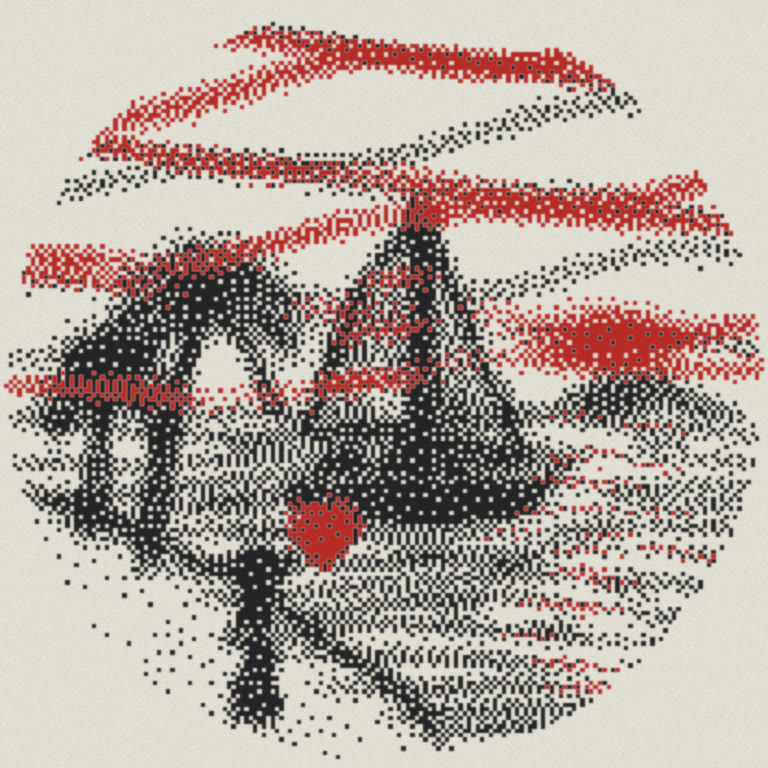
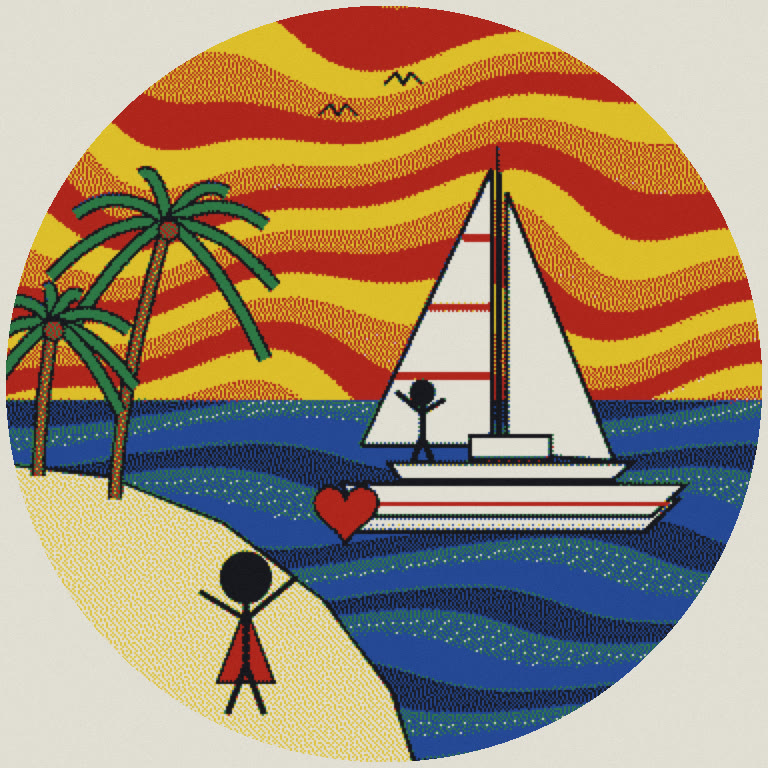
Six-colour display, fifteen styles

diff --git a/index.html b/index.html
@@ -92,33 +92,25 @@ ul{margin:0;padding-left:20px;display:flex;flex-direction:column;gap:8px;max-wid
   <ol class="steps">
     <li><b>Squeeze</b>Either bulb. Air pressure in the tube wakes the device; there is no visible switch.</li>
     <li><b>Tell it</b>Eight LEDs glow gently while the microphone listens, then pulse off.</li>
-    <li><b>It draws</b>The dream appears in black, white and red on a 3-inch e-paper screen under a magnifying lens, in the style you chose.</li>
+    <li><b>It draws</b>The dream appears in six colours on a 3-inch e-paper screen under a magnifying lens, in the style you chose.</li>
     <li><b>It remembers</b>Have the same dream again and it recognises it, then adds detail to the earlier picture.</li>
   </ol>
   <div class="grid2">
     <figure><img src="img/listening.jpg" alt="The web LEDs glowing violet while the device listens."><figcaption>Listening: the web lights breathe, then pulse off.</figcaption></figure>
-    <figure><img src="img/sketch.jpg" alt="Close-up of the e-paper screen showing a catamaran, palm trees, a figure on the sand and a red heart under a sky of sweeping red bands, built from dots."><figcaption>The example dream: a catamaran at a desert island, and finding your love on the sand.</figcaption></figure>
+    <figure><img src="img/sketch.jpg" alt="Close-up of the e-paper screen showing a catamaran, palm trees, a figure on the sand and a red heart under a sky of sweeping red and yellow bands."><figcaption>The example dream: a catamaran at a desert island, and finding your love on the sand.</figcaption></figure>
   </div>
 </section>
 
 <section id="films">
   <h2>The two films</h2>
-  <p class="muted">A 60-second film of the Dreamkeeper in use and a 56-second technical breakdown are being rendered and will appear here shortly.</p>
+  <p class="muted">A 60-second film of the Dreamkeeper in use and a 64-second technical breakdown are being rendered and will appear here shortly.</p>
 </section>
 
 <section>
   <h2>Drawing styles</h2>
-  <p>The picture is not a line sketch by default. It forms as a cloud of soft dots that sharpens over a few screen refreshes, so it reads like something half-remembered. You pick a style when you set the Dreamkeeper up from your phone, and can change it later. The example dream below is shown in five styles; more could be added.</p>
-  <figure><img src="img/styles.jpg" alt="The same dream in five styles, each a round black, white and red picture: sweeping expressionist bands, a calm dotted mist, a dark picture with one pool of light, angular hatched facets, and a simple ink line drawing."><figcaption>Left to right: Scream, Mist, Rembrandt, Picasso, Ink.</figcaption></figure>
-  <div class="tablewrap"><table style="min-width:520px">
-    <tr><th>Style</th><th>Look</th></tr>
-    <tr><td>Scream</td><td>Sky and sea bent into long sweeping bands, after Edvard Munch's <i>The Scream</i>. Used for the example dream in the films.</td></tr>
-    <tr><td>Mist</td><td>A calm, low-resolution cloud of dots.</td></tr>
-    <tr><td>Rembrandt</td><td>Dark ground with one pool of light on the subject.</td></tr>
-    <tr><td>Picasso</td><td>Cubist: the scene broken into flat, angular, hatched facets.</td></tr>
-    <tr><td>Ink</td><td>A simple hand-drawn line sketch.</td></tr>
-  </table></div>
-  <p class="muted">All five are illustrations made for this concept to show the idea on a three-colour screen. They are not output from a working device.</p>
+  <p>You pick a drawing style when you set the Dreamkeeper up from your phone, and can change it whenever you like. Whatever the style, the dream has to stay easy to read: the same boat, island, figures and heart are plain in every one. Here is the example dream in fifteen styles, each limited to the six inks of the screen.</p>
+  <figure><img src="img/styles.jpg" alt="The same dream, a catamaran at a palm island with a figure on the sand and a red heart, shown as fifteen round pictures in different styles."><figcaption>Top: The Scream, Mist, Rembrandt, Picasso, Van Gogh. Middle: Monet, Pointillist, Woodblock, Pop art, Stained glass. Bottom: Mosaic, Ink, Chalkboard, Blueprint, Newsprint.</figcaption></figure>
+  <p class="muted">These are illustrations made for this concept to show the idea on a six-colour screen. They are not output from a working device, and the list of styles is open-ended.</p>
 </section>
 
 <section>
@@ -131,13 +123,13 @@ ul{margin:0;padding-left:20px;display:flex;flex-direction:column;gap:8px;max-wid
   <div class="tablewrap"><table>
     <tr><th>Element</th><th>Specification</th><th>Status</th></tr>
     <tr><td>Size</td><td>9 in (229 mm) hoop. With feathers and bulbs the piece hangs about 21 in (53 cm) long.</td><td class="s"><i class="chip dec">Decided</i></td></tr>
-    <tr><td>Display</td><td>3 in round screen at the centre of the web, under a magnifying lens. Three-colour e-paper (black, white, red) for low power.</td><td class="s"><i class="chip dec">Decided</i></td></tr>
+    <tr><td>Display</td><td>3 in round screen at the centre of the web, under a magnifying lens. Colour e-paper for low power: six inks (black, white, red, yellow, blue, green).</td><td class="s"><i class="chip dec">Decided</i></td></tr>
     <tr><td>Controls</td><td>Two squeeze switches, the lowest hanging elements. A squeeze starts a recording.</td><td class="s"><i class="chip dec">Decided</i></td></tr>
     <tr><td>Lights</td><td>Several LEDs in the web glow gently while listening, then pulse gently off. Eight in the model.</td><td class="s"><i class="chip dec">Decided</i></td></tr>
     <tr><td>Controller</td><td>ESP32 with Wi-Fi. Has its own access point so it can be set up from a phone.</td><td class="s"><i class="chip dec">Decided</i></td></tr>
     <tr><td>Power</td><td>Battery pack, charged by USB-C and by small solar panels hung as charms.</td><td class="s"><i class="chip dec">Decided</i></td></tr>
     <tr><td>Dream memory</td><td>Remembers past dreams. A repeated dream is recognised and its earlier picture gains detail.</td><td class="s"><i class="chip dec">Decided</i></td></tr>
-    <tr><td>Styles</td><td>Many drawing styles, chosen on the phone during setup. Shown here: Scream, Mist, Rembrandt, Picasso, Ink.</td><td class="s"><i class="chip dec">Decided</i></td></tr>
+    <tr><td>Styles</td><td>Many drawing styles, chosen on the phone during setup. Fifteen are shown here, including The Scream, Rembrandt, Picasso and Van Gogh.</td><td class="s"><i class="chip dec">Decided</i></td></tr>
     <tr><td>Moving pictures</td><td>Low-refresh animation: a new frame every few seconds, as e-paper allows.</td><td class="s"><i class="chip dec">Decided</i></td></tr>
     <tr><td>Hoop and web</td><td>Bent-wood hoop wrapped in suede lace, tied off at the top with a hanging loop. Waxed-thread web of seven rounds, slightly irregular as hand weaving is.</td><td class="s"><i class="chip pro">Proposal</i></td></tr>
     <tr><td>Ornament</td><td>Seven feathered laces with down plumes at the bindings, eight plain suede fringe laces, a small second hoop at the bottom centre, side clusters at 3 and 9 o'clock. Beads in turquoise, amber, amethyst, pearl, brass, wood and bone hairpipe; two conchos, crystal drops.</td><td class="s"><i class="chip pro">Proposal</i></td></tr>
@@ -152,7 +144,7 @@ ul{margin:0;padding-left:20px;display:flex;flex-direction:column;gap:8px;max-wid
   <div class="tablewrap"><table>
     <tr><th>Part</th><th>What it does</th><th>Suggested part</th></tr>
     <tr><td>Lens</td><td>Enlarges the picture and makes the screen read as a glass cabochon.</td><td>Plano-convex acrylic, about 80 mm</td></tr>
-    <tr><td>E-paper display</td><td>Shows the picture. Draws power only while it changes, and holds the image with none.</td><td>Three-colour panel, 3 in visible</td></tr>
+    <tr><td>E-paper display</td><td>Shows the picture. Draws power only while it changes, and holds the image with none.</td><td>Six-colour panel (E Ink Spectra 6), 3 in visible</td></tr>
     <tr><td>ESP32</td><td>Runs everything. Joins home Wi-Fi to send the recording and fetch the picture. On first use it broadcasts its own network; you join it from your phone and a setup page opens.</td><td>ESP32-S3 module</td></tr>
     <tr><td>Microphone</td><td>Records your description after a squeeze, for a set time or until you squeeze again.</td><td>Digital MEMS microphone</td></tr>
     <tr><td>Squeeze sensors</td><td>Each bulb's tube ends at an air-pressure sensor on the board. A squeeze raises the pressure and wakes the controller. No wiring runs down to the bulbs.</td><td>Two small pressure sensors</td></tr>
@@ -162,6 +154,16 @@ ul{margin:0;padding-left:20px;display:flex;flex-direction:column;gap:8px;max-wid
     <tr><td>Solar charms</td><td>Four small panels among the feathers trickle-charge the battery.</td><td>Four cells of about 20 × 30 mm</td></tr>
     <tr><td>Dream service</td><td>Turns speech into text, compares it with your earlier dreams, and draws the picture in the chosen style. This runs online, not on the device.</td><td>Speech-to-text, a text-similarity check, an image model</td></tr>
   </table></div>
+
+  <h3>How many colours can e-paper show?</h3>
+  <div class="tablewrap"><table style="min-width:560px">
+    <tr><th>Technology</th><th>Colours</th><th>Fit for this</th></tr>
+    <tr><td>Black, white and red</td><td>3</td><td>Cheapest and widely sold in small sizes, but limited.</td></tr>
+    <tr><td>E Ink Spectra 6</td><td>6 inks, more by dithering</td><td>The choice here. Sold as small hobby modules that an ESP32 can drive. Slow to refresh.</td></tr>
+    <tr><td>E Ink Kaleido 3</td><td>4,096</td><td>Fast, but made for e-readers of 6 inches and up, and colours look washed out.</td></tr>
+    <tr><td>E Ink Gallery 3</td><td>About 50,000</td><td>The widest range, but built for e-readers and signs, not small hobby panels.</td></tr>
+  </table></div>
+  <p class="muted">Figures are from press coverage of E Ink's announcements, not from datasheets, and should be checked before choosing a panel.</p>
 
   <h3>Power budget</h3>
   <p>Assumes an 800 mAh cell with about 700 mAh usable, and one dream recorded a day. Every figure here is calculated from typical part behaviour and has not been measured on hardware.</p>
@@ -177,9 +179,9 @@ ul{margin:0;padding-left:20px;display:flex;flex-direction:column;gap:8px;max-wid
 
   <h3>Limits to design around</h3>
   <ul>
-    <li><b>Three-colour e-paper is slow.</b> A full refresh with red typically takes around 15 seconds and flashes. The gradual sharpening shown in the film is an idealised version.</li>
-    <li><b>Animation is likely black and white only.</b> Fast partial refresh is usually available only for black and white; red needs the full refresh. The slow animation would move the black dots and leave red still.</li>
-    <li><b>A round 3-inch three-colour panel may not exist off the shelf.</b> None has been confirmed yet. A square panel behind a round mask would do for a prototype.</li>
+    <li><b>Colour e-paper is slow.</b> A full colour refresh typically takes many seconds and flashes. The gradual sharpening shown in the film is an idealised version.</li>
+    <li><b>Animation will be very slow.</b> Each new frame is a full colour refresh, so movement means a new frame a few times a minute at best, and each frame costs battery.</li>
+    <li><b>A round 3-inch six-colour panel may not exist off the shelf.</b> None has been confirmed yet. Rectangular Spectra 6 modules of 3.6 and 4 inches are sold for hobby boards; one behind a round mask would do for a prototype.</li>
     <li><b>The picture is made online.</b> The ESP32 cannot transcribe speech or draw. That means Wi-Fi, a running cost per dream, and spoken dreams leaving the house. Buyers will ask about privacy; the answer needs deciding.</li>
     <li><b>Recognising a repeated dream is a judgement call.</b> The service needs a threshold for "the same dream", and a way for the owner to say it got it wrong.</li>
   </ul>
@@ -201,7 +203,7 @@ ul{margin:0;padding-left:20px;display:flex;flex-direction:column;gap:8px;max-wid
   <ul>
     <li><b>Lettering.</b> Name and headlines in an italic old-style serif (Cormorant Garamond here). Body text in a plain sans. Small capitals with wide spacing for labels.</li>
     <li><b>Photography.</b> Dim room, one warm lamp low and to the left, cool moonlight from the upper right. The piece hangs on a plain dark wall. No phones, cables or circuit boards in lifestyle pictures; the exploded view is for the technical page only.</li>
-    <li><b>The picture.</b> Soft and half-remembered: black dots on paper white, with red kept for one or two things that matter in the dream.</li>
+    <li><b>The picture.</b> Six flat inks on paper white, bold enough to read from the pillow, with red kept for what matters most in the dream.</li>
     <li><b>Voice.</b> Quiet, second person, short sentences. Say what it does. Avoid promising meaning, healing or protection.</li>
   </ul>
 </section>
@@ -212,7 +214,7 @@ ul{margin:0;padding-left:20px;display:flex;flex-direction:column;gap:8px;max-wid
     <p>Dreamkeeper hangs by your bed and helps you keep the dreams you would otherwise lose by breakfast. Squeeze, say what you remember, and it draws the dream on a small paper-like screen at the centre of its web, in a style you choose.</p></div>
   <div class="copy"><span class="tag">Long description</span>
     <p>Most dreams are gone within minutes of waking. Dreamkeeper gives you somewhere to put them. Reach for one of the soft bulbs below the feathers and squeeze. A ring of lights in the web glows to show it is listening. Tell it what you remember, in whatever order it comes.</p>
-    <p>A little later the screen at the centre draws your dream in black, white and red, as a soft picture that sharpens as you watch. The picture stays there through the day without glowing and without using power. If the same dream returns, it recognises it and adds to the picture you already have.</p>
+    <p>A little later the screen at the centre draws your dream in colour, as a soft picture that sharpens as you watch. The picture stays there through the day without glowing and without using power. If the same dream returns, it recognises it and adds to the picture you already have.</p>
     <p>Each piece is finished by hand with a suede-wrapped hoop, woven web, feathers, glass and stone beads. It charges by USB-C, and its small solar charms help in a bright room.</p></div>
   <div class="copy"><span class="tag">Advertising lines</span>
     <ul class="lines">
@@ -225,7 +227,7 @@ ul{margin:0;padding-left:20px;display:flex;flex-direction:column;gap:8px;max-wid
   <div class="copy"><span class="tag">Listing bullets</span>
     <ul>
       <li>Squeeze a bulb and describe your dream; it draws it on a 3-inch e-paper screen</li>
-      <li>Choose a drawing style on your phone: Scream, Mist, Rembrandt, Picasso, Ink</li>
+      <li>Choose from many drawing styles on your phone, from Rembrandt to pop art</li>
       <li>Remembers your dreams and builds on the picture when one returns</li>
       <li>No glow at night: the screen is paper-like and the web lights switch themselves off</li>
       <li>About 2–3 months per charge (estimate); USB-C, with solar charms to top up</li>
